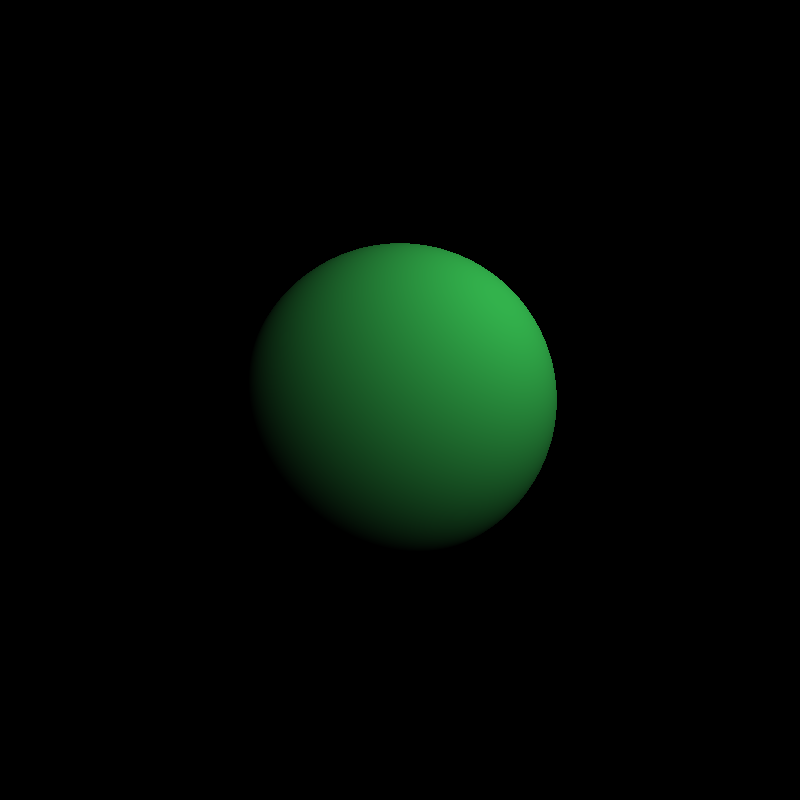
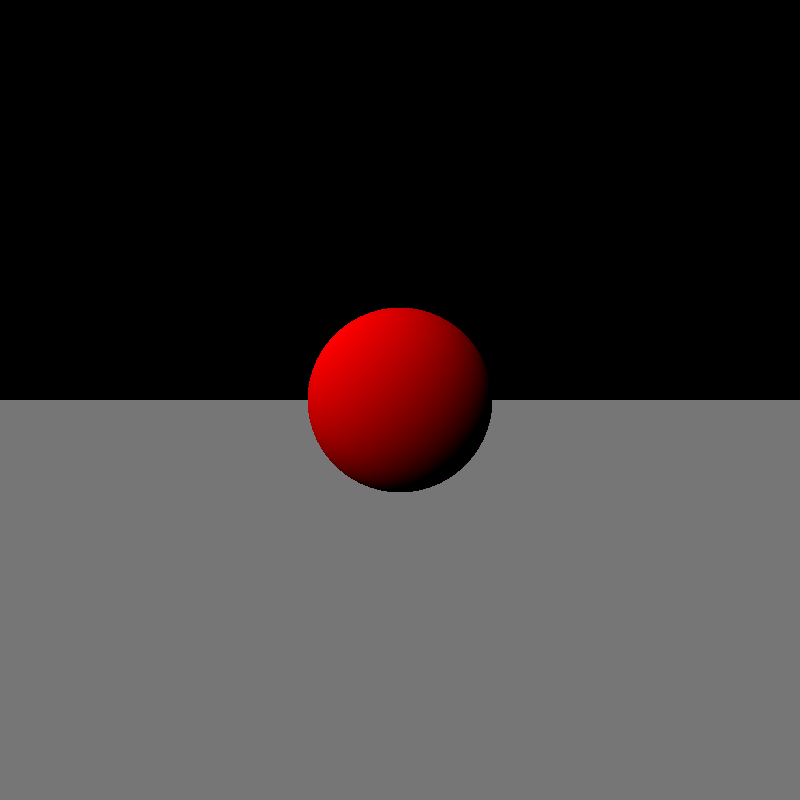
Render a scene: a sphere on a floor

diff --git a/src/render/Camera.cpp b/src/render/Camera.cpp
@@ -15,12 +15,12 @@ double Camera::screenWidth() const {
     return _screenWidth;
 }
 
-Ray Camera::rayThroughCenter() {
+Ray Camera::rayThroughCenter() const {
     Vector direction(0, 0, 1);
     return Ray(_position, direction);
 }
 
-Ray Camera::rayThroughPixel(int column, int row, int imageWidth, int imageHeight) {
+Ray Camera::rayThroughPixel(int column, int row, int imageWidth, int imageHeight) const {
     double pixelSize = _screenWidth / imageWidth;
 
     double x = ((column + 0.5) - (imageWidth / 2.0)) * pixelSize;
@@ -30,6 +30,29 @@ Ray Camera::rayThroughPixel(int column, int row, int imageWidth, int imageHeight
     Vector direction = pixelPosition - _position;
 
     return Ray(_position, direction);
+}
+
+Image Camera::render(const Scene& scene, int width, int height) const {
+    Image image(static_cast<unsigned int>(width), static_cast<unsigned int>(height));
+    render(image, scene);
+    return image;
+}
+
+Image Camera::render(const Scene& scene, unsigned int width, unsigned int height) const {
+    Image image(width, height);
+    render(image, scene);
+    return image;
+}
+
+void Camera::render(Image& image, const Scene& scene) const {
+    int width = static_cast<int>(image.width());
+    int height = static_cast<int>(image.height());
+    for (int row = 0; row < height; ++row) {
+        for (int column = 0; column < width; ++column) {
+            Ray ray = rayThroughPixel(column, row, width, height);
+            image.setPixel(column, row, trace(ray, scene));
+        }
+    }
 }
 
 void Camera::render(Image& image, const Sphere& sphere, const Light& light) {

diff --git a/tests/render/test_camera.cpp b/tests/render/test_camera.cpp
@@ -1,6 +1,9 @@
 #include <catch2/catch_test_macros.hpp>
+#include <memory>
 #include "render/Camera.h"
 #include "geometry/Sphere.h"
+#include "scene/scene.h"
+#include "material/Material.h"
 #include "test_helpers.h"
 
 TEST_CASE("Camera rayThroughCenter", "[render][camera]") {
@@ -53,10 +56,12 @@ TEST_CASE("Camera rayThroughPixel", "[render][camera]") {
 
 TEST_CASE("Camera render function", "[render][camera]") {
     Camera camera(Vector(0.0, 0.0, -1.0), 5.0);
-    Sphere sphere(Vector(0.0, 0.0, 9.0), 5.0, Colour(1.0, 0.0, 0.0));
 
     SECTION("renders image with correct dimensions and colours") {
-        Image img = camera.render(sphere, 5, 3);
+        Scene scene(Vector(0.0, 0.0, -1.0));
+        scene.add(std::make_unique<Sphere>(Vector(0.0, 0.0, 9.0), 5.0, Material(Colour(1.0, 0.0, 0.0))));
+
+        Image img = camera.render(scene, 5, 3);
         REQUIRE(img.width() == 5);
         REQUIRE(img.height() == 3);
 
@@ -69,8 +74,11 @@ TEST_CASE("Camera render function", "[render][camera]") {
     }
 
     SECTION("renders into an existing image buffer") {
+        Scene scene(Vector(0.0, 0.0, -1.0));
+        scene.add(std::make_unique<Sphere>(Vector(0.0, 0.0, 9.0), 5.0, Material(Colour(1.0, 0.0, 0.0))));
+
         Image img(5, 3);
-        camera.render(img, sphere);
+        camera.render(img, scene);
 
         REQUIRE(img.pixel(2, 1) == Colour(1.0, 0.0, 0.0));
         REQUIRE(img.pixel(4, 0) == Colour(0.0, 0.0, 0.0));

diff --git a/src/main.cpp b/src/main.cpp
@@ -1,29 +1,31 @@
 #include <iostream>
+#include <memory>
 #include "raytracer/app.hpp"
 #include "math/Vector.h"
 #include "geometry/Ray.h"
 #include "geometry/Sphere.h"
+#include "geometry/plane.h"
 #include "render/Camera.h"
 #include "colour/Colour.h"
 #include "render/trace.h"
 #include "render/Image.h"
 #include "io/PngSaver.h"
-
-#include "material/LambertShader.h"
-#include "light/Light.h"
+#include "scene/scene.h"
+#include "material/Material.h"
 
 int main() {
     std::cout << raytracer::get_greeting() << "\n";
 
     Camera camera(Vector(0, 0, -1), 5.0);
-    auto lambert = std::make_shared<LambertShader>(Colour(0.2, 0.7, 0.3));
-    Sphere sphere(Vector(0, 0, 9), 7.0, lambert);
-    Light light(Vector(5, 5, -3), Colour(1.0, 1.0, 1.0));
+
+    Scene scene(Vector(-1, 1, -1).normalised());
+    scene.add(std::make_unique<Sphere>(Vector(0, 0, 9), 5, Material(Colour(1, 0, 0))));
+    scene.add(std::make_unique<Plane>(Vector(0, -5, 0), Vector(0, 1, 0), Material(Colour(0.8, 0.8, 0.8))));
 
     const unsigned int width = 800;
     const unsigned int height = 800;
 
-    Image image = camera.render(sphere, light, width, height);
+    Image image = camera.render(scene, width, height);
 
     PngSaver saver("output.png");
     saver.save(image);

diff --git a/tests/render/test_trace.cpp b/tests/render/test_trace.cpp
@@ -1,16 +1,22 @@
 #include <catch2/catch_test_macros.hpp>
+#include <memory>
 #include "render/trace.h"
+#include "scene/scene.h"
+#include "geometry/Sphere.h"
+#include "material/Material.h"
 
-TEST_CASE("Trace ray against sphere", "[render][trace]") {
+TEST_CASE("Trace ray against scene", "[render][trace]") {
     Ray ray(Vector(0.0, 0.0, -1.0), Vector(0.0, 0.0, 1.0));
 
     SECTION("Hits sphere with centre (0, 0, 9), gives red (1, 0, 0)") {
-        Sphere sphere(Vector(0.0, 0.0, 9.0), 5.0, Colour(1.0, 0.0, 0.0));
-        REQUIRE(trace(ray, sphere) == Colour(1.0, 0.0, 0.0));
+        Scene scene(Vector(0.0, 0.0, -1.0));
+        scene.add(std::make_unique<Sphere>(Vector(0.0, 0.0, 9.0), 5.0, Material(Colour(1.0, 0.0, 0.0))));
+        REQUIRE(trace(ray, scene) == Colour(1.0, 0.0, 0.0));
     }
 
     SECTION("Misses sphere with centre (6, 0, 9), gives black (0, 0, 0)") {
-        Sphere sphere(Vector(6.0, 0.0, 9.0), 5.0, Colour(1.0, 0.0, 0.0));
-        REQUIRE(trace(ray, sphere) == Colour(0.0, 0.0, 0.0));
+        Scene scene(Vector(0.0, 0.0, -1.0));
+        scene.add(std::make_unique<Sphere>(Vector(6.0, 0.0, 9.0), 5.0, Material(Colour(1.0, 0.0, 0.0))));
+        REQUIRE(trace(ray, scene) == Colour(0.0, 0.0, 0.0));
     }
 }

diff --git a/src/render/Camera.h b/src/render/Camera.h
@@ -5,6 +5,7 @@
 #include "geometry/Sphere.h"
 #include "render/Image.h"
 #include "light/Light.h"
+#include "scene/scene.h"
 
 class Camera {
 private:
@@ -17,9 +18,13 @@ public:
     const Vector& position() const;
     double screenWidth() const;
 
-    Ray rayThroughCenter();
+    Ray rayThroughCenter() const;
 
-    Ray rayThroughPixel(int column, int row, int imageWidth, int imageHeight);
+    Ray rayThroughPixel(int column, int row, int imageWidth, int imageHeight) const;
+
+    Image render(const Scene& scene, int width, int height) const;
+    Image render(const Scene& scene, unsigned int width, unsigned int height) const;
+    void render(Image& image, const Scene& scene) const;
 
     Image render(const Sphere& sphere, unsigned int imageWidth, unsigned int imageHeight);
     Image render(const Sphere& sphere, const Light& light, unsigned int imageWidth, unsigned int imageHeight);

diff --git a/src/material/Material.h b/src/material/Material.h
@@ -2,6 +2,7 @@
 
 #include <memory>
 #include "colour/Colour.h"
+#include "math/Vector.h"
 
 struct Hit;
 using HitInfo = Hit;
@@ -21,6 +22,14 @@ public:
     virtual ~Material() = default;
 
     virtual const Colour& colour() const { return _colour; }
+
+    virtual Colour shade(const Vector& normal, const Vector& toLight) const {
+        double dot = normal.dot(toLight);
+        if (dot < 0.0) {
+            dot = 0.0;
+        }
+        return Colour(_colour.r() * dot, _colour.g() * dot, _colour.b() * dot);
+    }
 
     virtual Colour shade(const Hit& hit, const Light& light) const {
         (void)hit;

diff --git a/src/render/trace.cpp b/src/render/trace.cpp
@@ -1,6 +1,15 @@
 #include "render/trace.h"
 #include "material/Material.h"
 #include "geometry/HitInfo.h"
+#include "scene/scene.h"
+
+Colour trace(const Ray& ray, const Scene& scene) {
+    std::optional<Hit> hit = scene.nearestHit(ray);
+    if (!hit) {
+        return Colour(0, 0, 0);
+    }
+    return hit->material.shade(hit->normal, scene.toLight());
+}
 
 Colour trace(const Ray& ray, const Sphere& sphere, const Light& light) {
     auto hitInfo = sphere.hit(ray);

diff --git a/src/geometry/Hit.h b/src/geometry/Hit.h
@@ -25,6 +25,10 @@ public:
         return _ptr ? _ptr->colour() : black;
     }
 
+    Colour shade(const Vector& normal, const Vector& toLight) const {
+        return _ptr ? _ptr->shade(normal, toLight) : Colour(0.0, 0.0, 0.0);
+    }
+
     explicit operator bool() const { return _ptr != nullptr; }
     bool operator==(std::nullptr_t) const { return _ptr == nullptr; }
     bool operator!=(std::nullptr_t) const { return _ptr != nullptr; }

diff --git a/src/render/trace.h b/src/render/trace.h
@@ -4,6 +4,8 @@
 #include "geometry/Sphere.h"
 #include "colour/Colour.h"
 #include "light/Light.h"
+#include "scene/scene.h"
 
+Colour trace(const Ray& ray, const Scene& scene);
 Colour trace(const Ray& ray, const Sphere& sphere, const Light& light);
 Colour trace(const Ray& ray, const Sphere& sphere);

diff --git a/src/material/LambertShader.h b/src/material/LambertShader.h
@@ -14,6 +14,8 @@ private:
     Colour _colour;
 
 public:
+    using Material::shade;
+
     LambertShader();
     explicit LambertShader(const Colour& colour);
 

diff --git a/src/material/FlatShader.h b/src/material/FlatShader.h
@@ -14,6 +14,8 @@ private:
     Colour _colour;
 
 public:
+    using Material::shade;
+
     FlatShader();
     explicit FlatShader(const Colour& colour);
 
